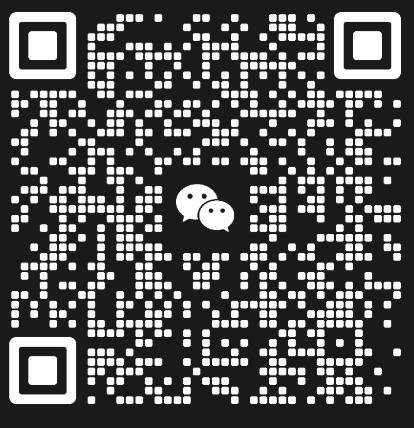
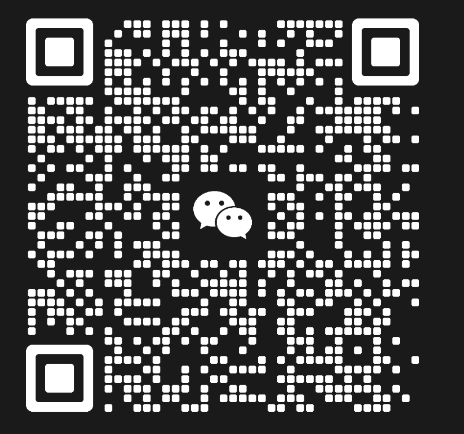
docs: 统一中英文 README 赞助横幅并新增 Clidex (#1237)
* docs: align sponsor banners and add Clidex to bilingual READMEs

* docs: refresh WeChat group QR code

diff --git a/README.md b/README.md
@@ -202,7 +202,6 @@ flowchart LR
 <details>
 <summary><strong>Develop Lithe</strong></summary>
 
-
 Development and CI use Swift 6.3.3, pinned in `.swift-version`, with Xcode 26.6. Running the complete test suite requires Xcode; basic SwiftPM builds only need matching Command Line Tools. Developers using Xcode 27 may also build locally; the macOS 27 SDK compatibility path is detected by the build scripts. `Package.swift` keeps its Swift 6.2 manifest API minimum; this does not select the compiler version.
 
 Run the development build from the repository root:
@@ -250,7 +249,7 @@ See [Repository ownership and sharing boundaries](./.agents/notes/implemented/ar
 
 <p align="center">
   <a href="https://www.fastaitoken.com/">
-    <img src="./docs/assets/sponsors/fastai-qrcode.png" width="480" alt="FastAI Token community chat group QR code">
+    <img src="./docs/assets/sponsors/fastai-qrcode.png" width="720" alt="FastAI Token community chat group QR code">
   </a>
 </p>
 <p align="center">
@@ -272,16 +271,6 @@ See [Repository ownership and sharing boundaries](./.agents/notes/implemented/ar
 <a href="mailto:2188718831@qq.com">Want to be featured below?</a>
 
 <table>
-  <tr>
-    <td width="112" align="center">
-      <a href="https://www.fastaitoken.com/">
-        <img src="./docs/assets/sponsors/fastai.png" width="64" alt="FastAI">
-      </a>
-    </td>
-    <td>
-      <a href="https://www.fastaitoken.com/"><strong>FastAI</strong></a> provides convenient relay access to a range of leading large language models, making it easier to connect AI capabilities to everyday development workflows. Its support helps Lithe continue improving its AI-assisted experience. Thank you to FastAI for supporting this project!
-    </td>
-  </tr>
   <tr>
     <td width="112" align="center">
       <a href="https://pateway.ai/?ch=68i69k">
@@ -320,6 +309,16 @@ See [Repository ownership and sharing boundaries](./.agents/notes/implemented/ar
     </td>
     <td>
       <a href="https://www.ccsub.net/register?ref=FKVAWH6E"><strong>CCSub</strong></a> provides access to Claude, GPT, Gemini, and DeepSeek through one API key, with support for Claude Code, Codex, Cursor, and other AI coding tools. New users receive $5 in trial credit. Thank you to CCSub for supporting Lithe!
+    </td>
+  </tr>
+  <tr>
+    <td width="112" align="center">
+      <a href="https://dash.clidex.dev">
+        <img src="./docs/assets/sponsors/clidex.svg" width="64" alt="Clidex">
+      </a>
+    </td>
+    <td>
+      <a href="https://dash.clidex.dev"><strong>Clidex</strong></a> builds AI infrastructure for creators, with API access for native AI command-line tools at just 0.8% of official API pricing. Bring AI into your daily development workflow with Clidex. Thank you to Clidex for supporting Lithe and its continued development!
     </td>
   </tr>
   <tr>

diff --git a/README.zh-CN.md b/README.zh-CN.md
@@ -202,7 +202,6 @@ flowchart LR
 <details>
 <summary><strong>如何开发</strong></summary>
 
-
 开发环境和 CI 使用 `.swift-version` 固定的 Swift 6.3.3 与 Xcode 26.6。运行完整测试需要 Xcode；基础 SwiftPM 构建只需要匹配的 Command Line Tools。使用 Xcode 27 的开发者也可以在本地构建，构建脚本会自动识别 macOS 27 SDK 的兼容路径。`Package.swift` 仍保留 Swift 6.2 的 manifest API 下限，这不会选择编译器版本。
 
 在项目根目录运行开发版本：
@@ -246,7 +245,7 @@ open dist/Lithe.app
 
 <p align="center">
   <a href="https://www.fastaitoken.com/">
-    <img src="./docs/assets/sponsors/fastai-qrcode.png" width="480" alt="FastAI Token 交流群二维码">
+    <img src="./docs/assets/sponsors/fastai-qrcode.png" width="720" alt="FastAI Token 交流群二维码">
   </a>
 </p>
 <p align="center">
@@ -268,16 +267,6 @@ open dist/Lithe.app
 <a href="mailto:2188718831@qq.com">想显示在下方？</a>
 
 <table>
-  <tr>
-    <td width="112" align="center">
-      <a href="https://www.fastaitoken.com/">
-        <img src="./docs/assets/sponsors/fastai.png" width="64" alt="FastAI">
-      </a>
-    </td>
-    <td>
-      <a href="https://www.fastaitoken.com/"><strong>FastAI</strong></a> 提供多款主流大模型的便捷中转服务，让开发者可以更轻松地把 AI 能力接入日常开发流程。其支持也帮助 Lithe 持续完善 AI 辅助体验。感谢 FastAI 对本项目的支持！
-    </td>
-  </tr>
   <tr>
     <td width="112" align="center">
       <a href="https://pateway.ai/?ch=68i69k">
@@ -316,6 +305,16 @@ open dist/Lithe.app
     </td>
     <td>
       <a href="https://www.ccsub.net/register?ref=FKVAWH6E"><strong>CCSub</strong></a> 提供统一 API 接入，一个密钥即可调用 Claude、GPT、Gemini 和 DeepSeek 等模型，兼容 Claude Code、Codex、Cursor 等 AI 编程工具。新用户注册可获 $5 体验额度。感谢 CCSub 对 Lithe 的支持！
+    </td>
+  </tr>
+  <tr>
+    <td width="112" align="center">
+      <a href="https://dash.clidex.dev">
+        <img src="./docs/assets/sponsors/clidex.svg" width="64" alt="Clidex">
+      </a>
+    </td>
+    <td>
+      <a href="https://dash.clidex.dev"><strong>Clidex</strong></a> 提供为创造者而生的 AI 基础设施，面向原生 AI 命令行工具提供 API 接入，价格低至官方 API 的 0.08 折。让 AI 融入日常开发流程，为创作与编程提供更实惠的选择。感谢 Clidex 对 Lithe 的赞助，支持项目持续开发与完善！
     </td>
   </tr>
   <tr>
